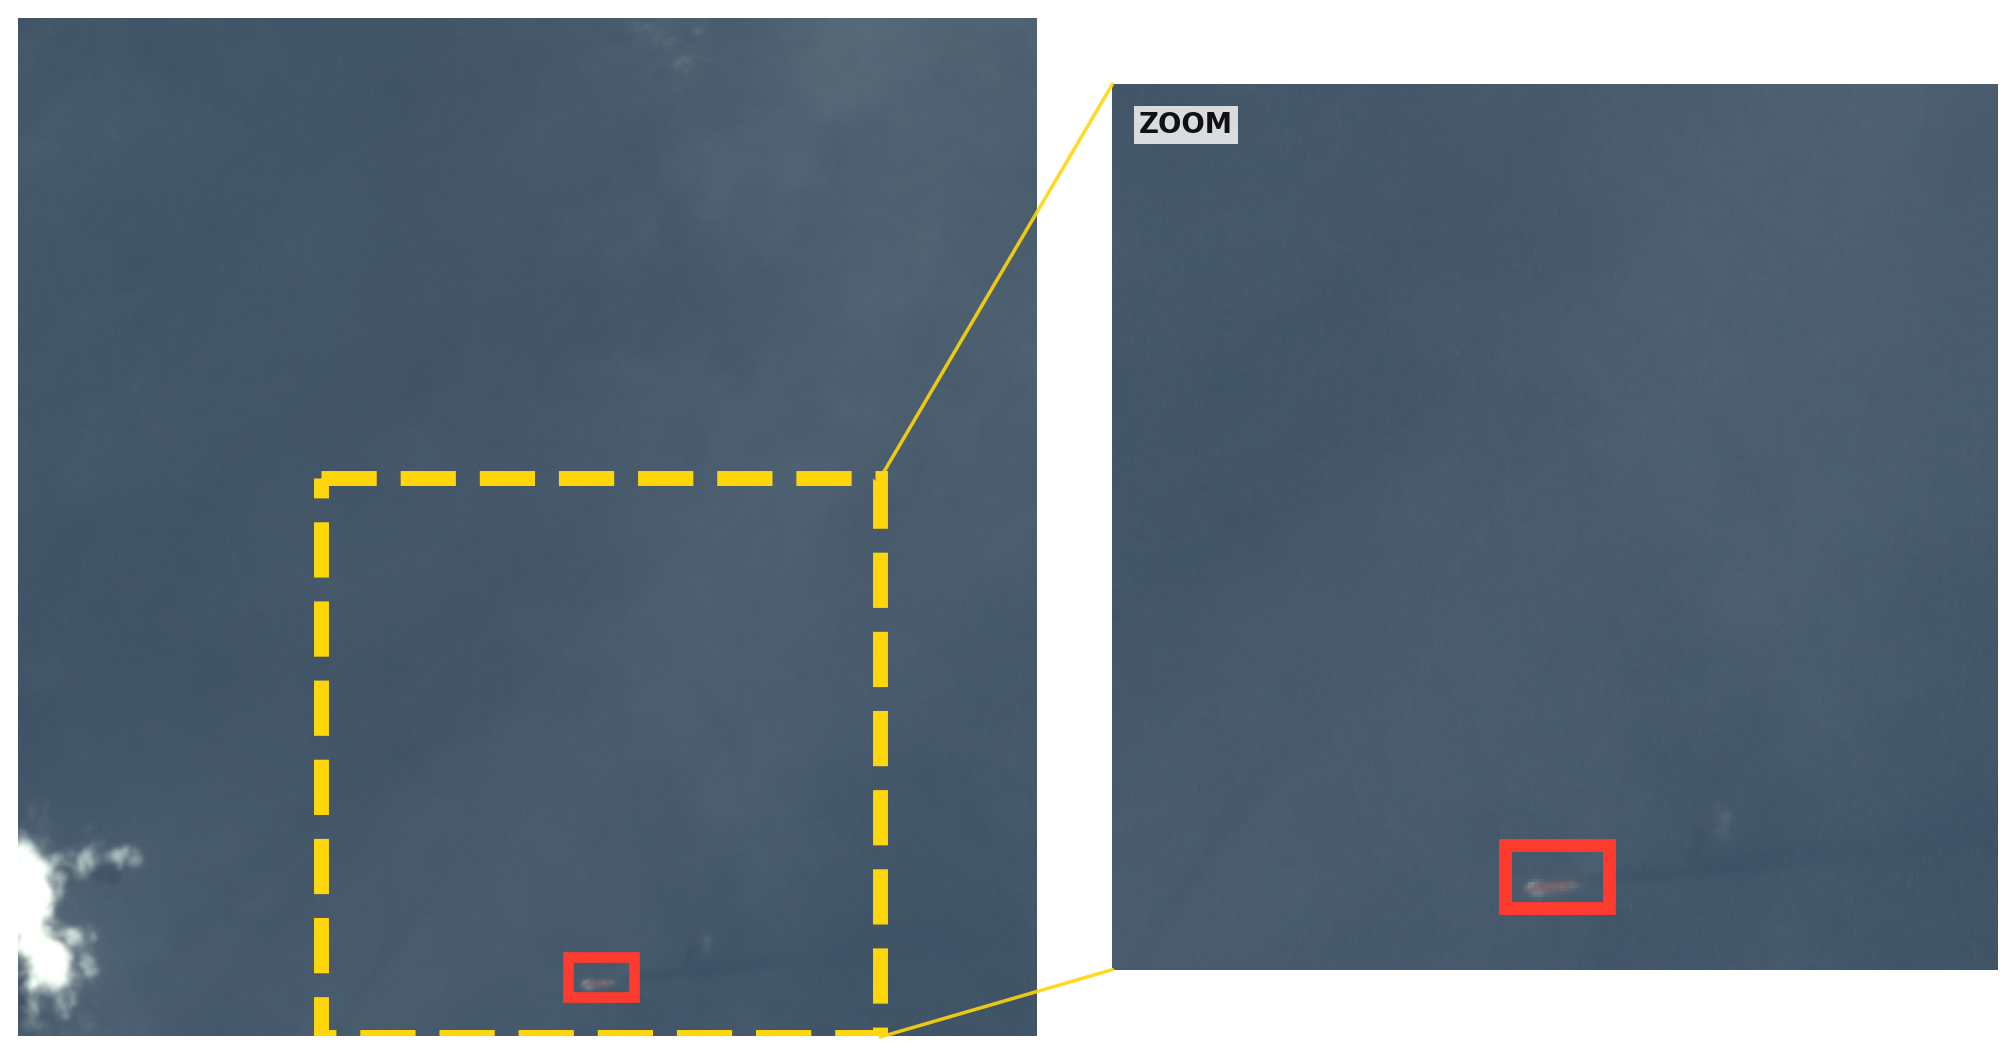
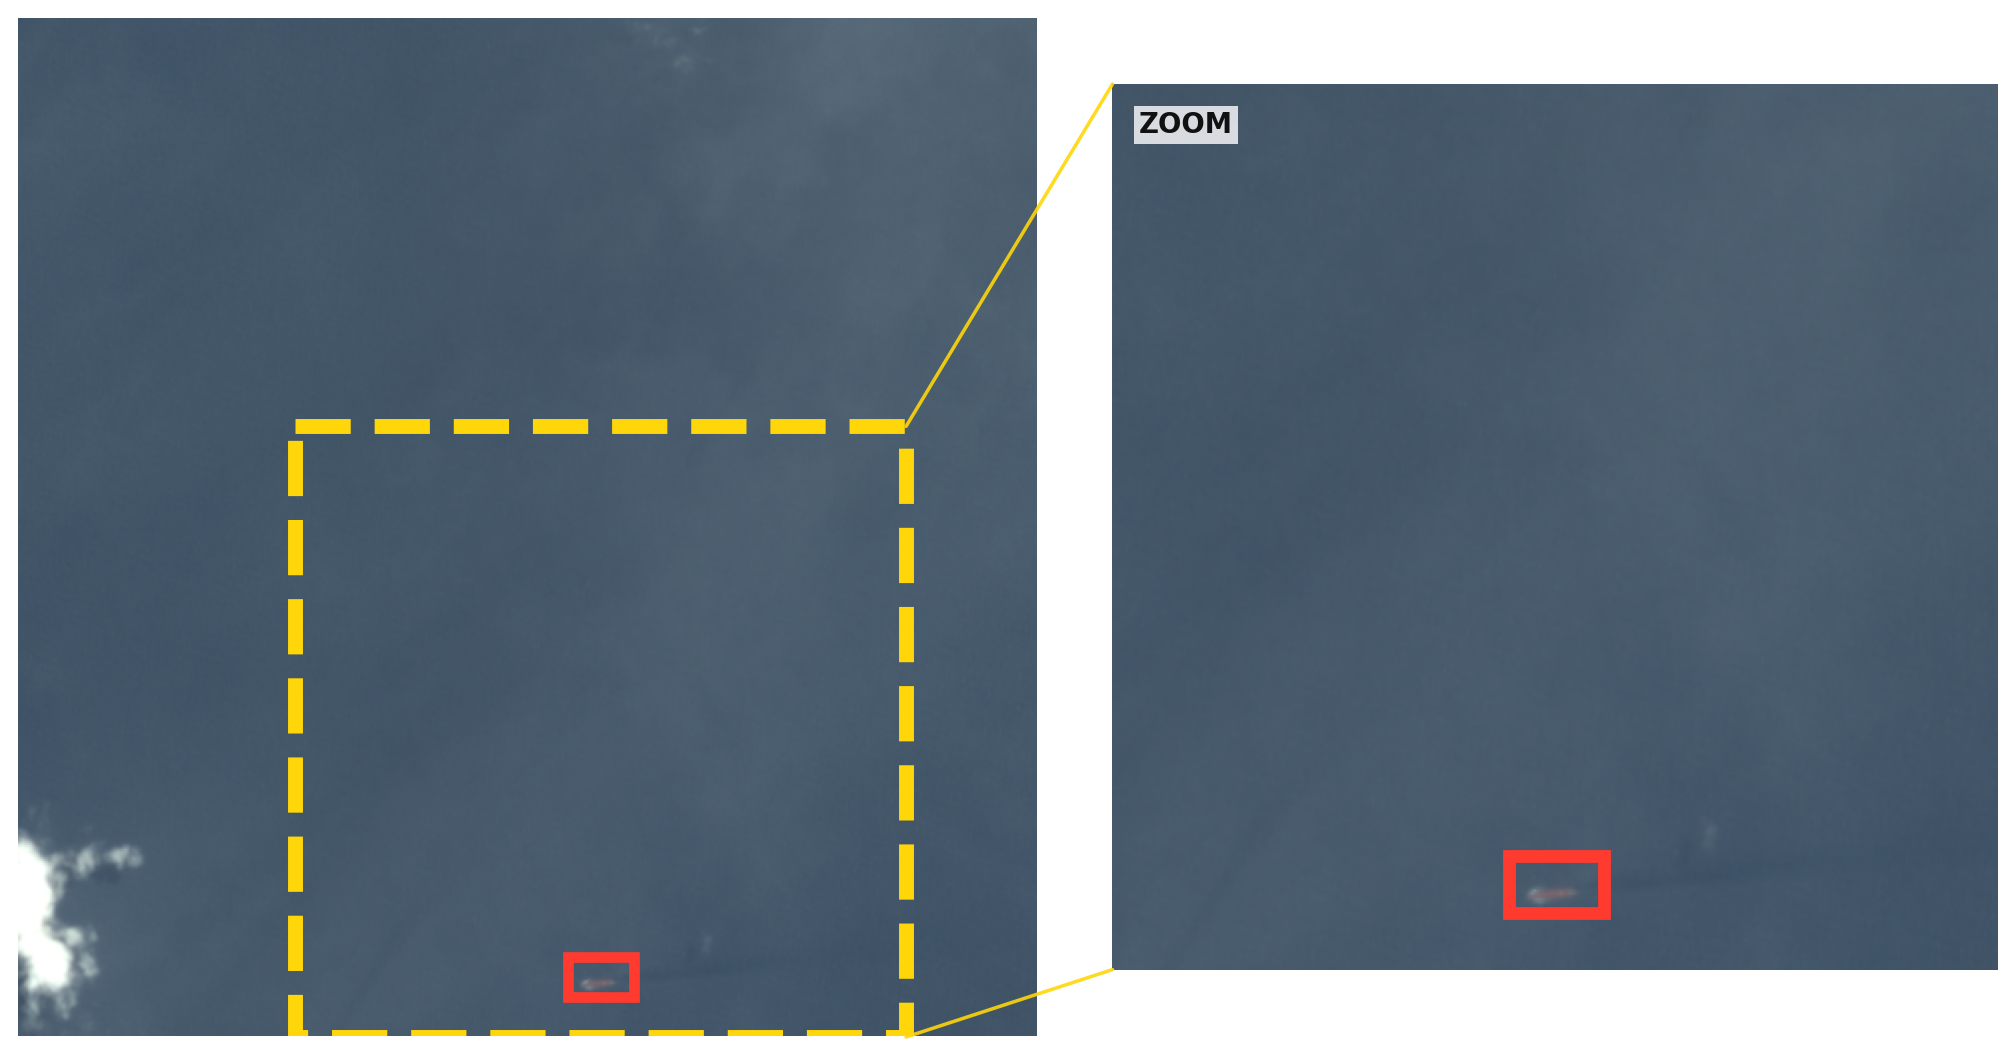
Prefer denser local ship zoom regions

diff --git a/misc/plot_dataset_examples.py b/misc/plot_dataset_examples.py
@@ -226,7 +226,7 @@ def main() -> None:
         plot_sheet(items, config["label"], config["class_name"], dataset_dir / "contact_sheet.png")
         if name in {"levir_ship", "tiny_person"}:
             zoom_dir = args.output_dir / "zoomed_examples" / name
-            crop_fraction = (0.55, 0.55) if name == "levir_ship" else (0.38, 0.48)
+            crop_fraction = (0.60, 0.60) if name == "levir_ship" else (0.38, 0.48)
             for index, item in enumerate(items, start=1):
                 plot_zoom_one(item, zoom_dir / f"example_{index}.png", crop_fraction)
         print(f"{name}: " + ", ".join(f"{count} boxes ({path.name})" for count, path, _ in items))
